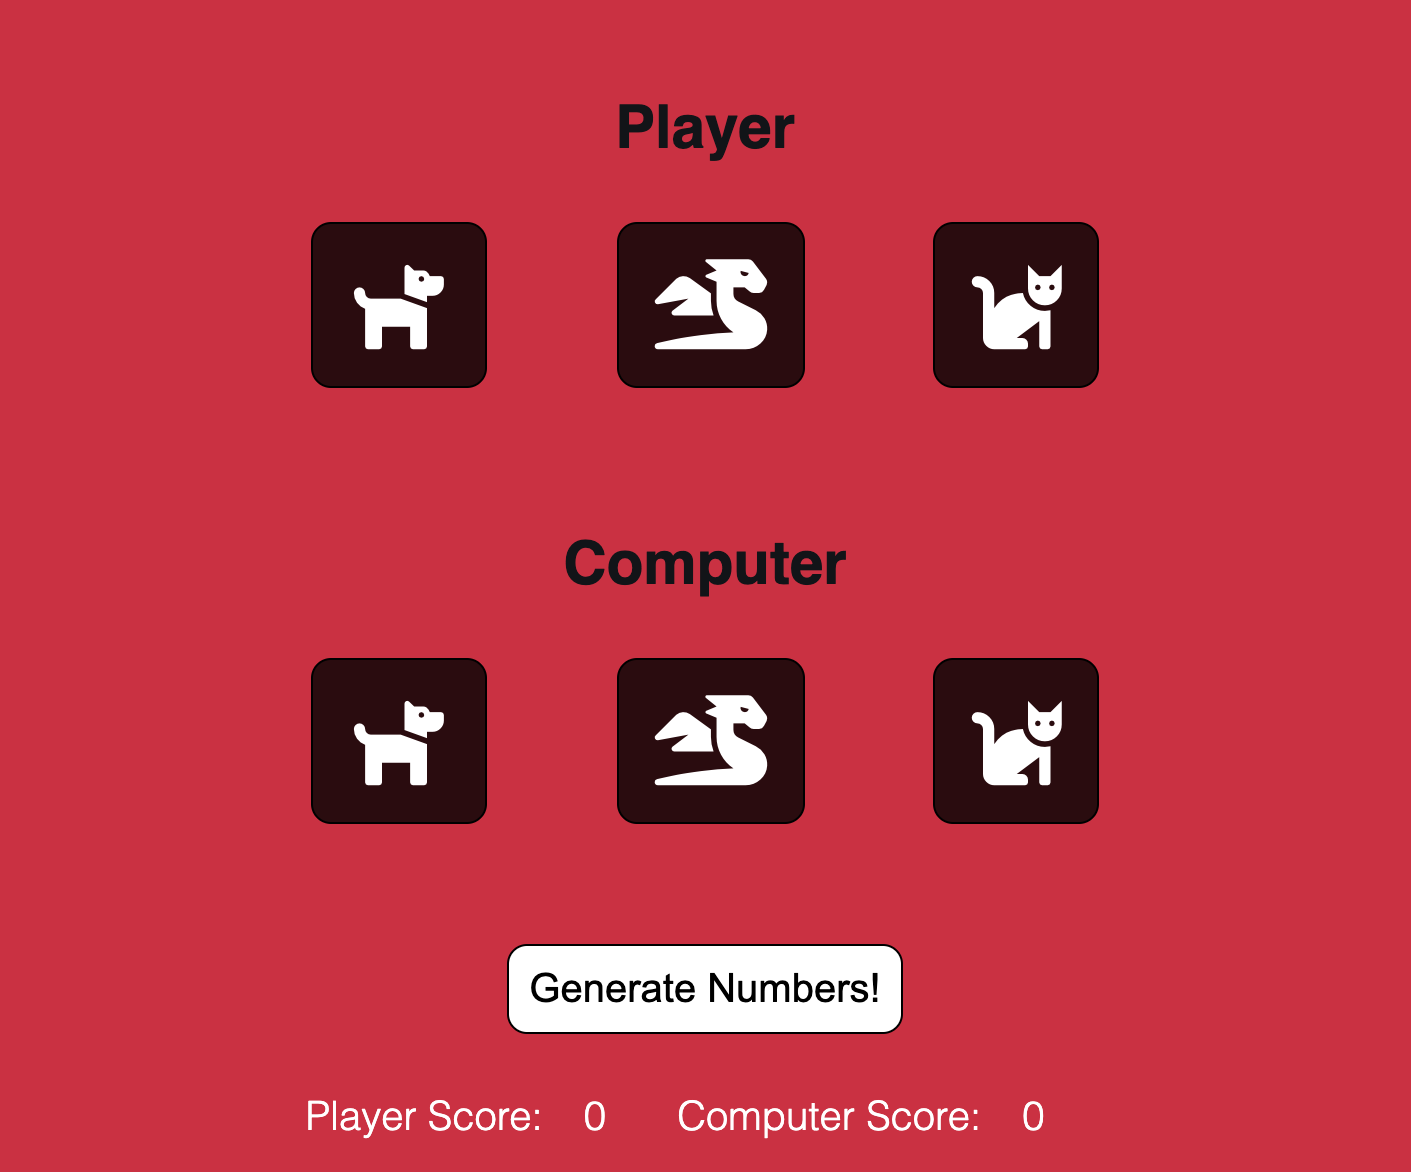
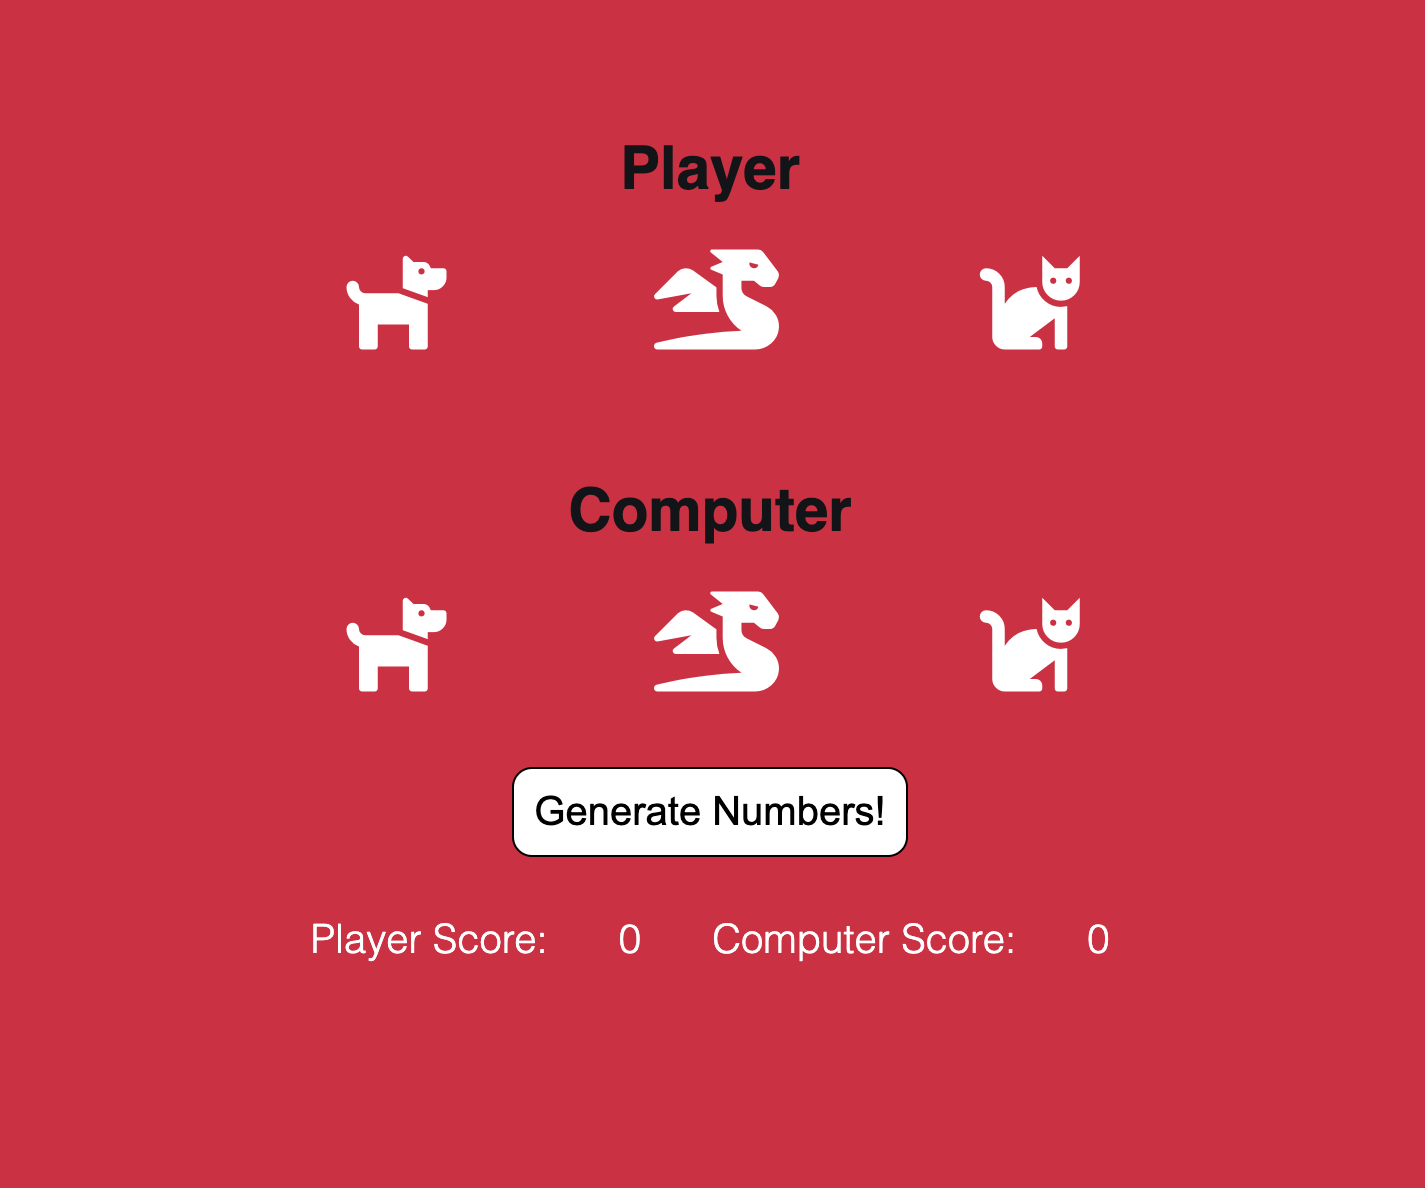
replace image files to correspond with new css styling, update readme images

diff --git a/assets/css/style.css b/assets/css/style.css
@@ -37,7 +37,7 @@ p {
 }
 
 i {
-    font-size: 45px;
+    font-size: 50px;
     padding: 8px;
 }
 
@@ -137,7 +137,7 @@ footer {
 
 /* Media queries */
 
-@media screen and (max-width: 923px) {
+@media screen and (max-width: 935px) {
 
     .num-button {
         color: white;

diff --git a/README.md b/README.md
@@ -107,7 +107,7 @@ JavaScript: No errors were returned when passing through the official JSHint val
 
 This game has many responsive features for several different screen sizes.
 
-In the main game section, the animal symbols are responsive for screens of 923px and lower. They have less padding and a smaller margin.
+In the main game section, the animal symbols are responsive for screens of 935px and lower. They have less padding and a smaller margin.
 
 The central game background is responsive for screens 864px and lower. I have given it a width of 'auto' and altered the padding and margin.
 
